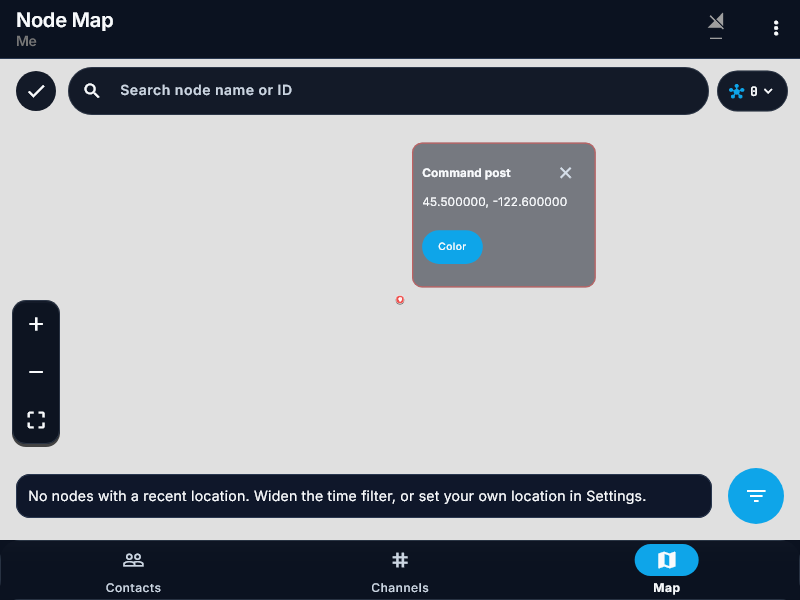
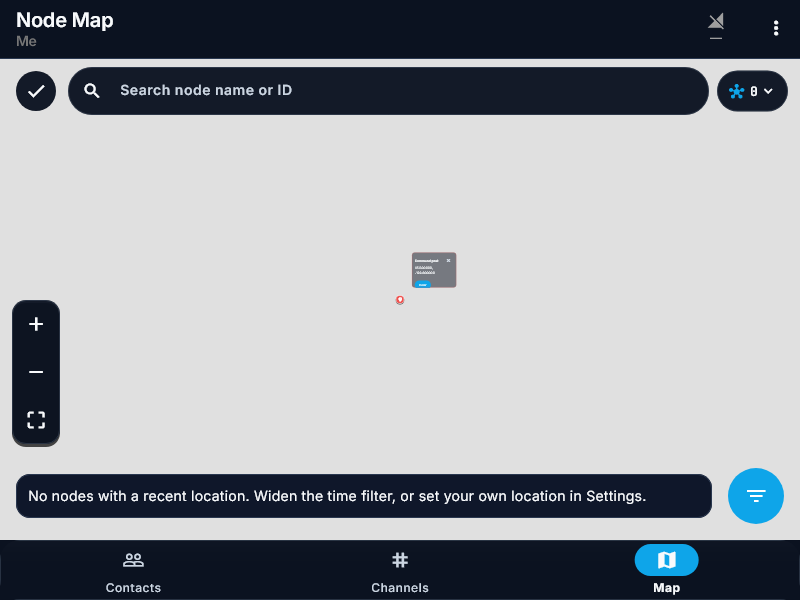
map disappears at 11.28 zoom

Changed region(s): [[0.5, 0.21, 0.75, 0.48]]

diff --git a/lib/screens/map_screen.dart b/lib/screens/map_screen.dart
@@ -79,6 +79,7 @@ class _MapScreenState extends State<MapScreen> with DisconnectNavigationMixin {
   static const double _guessedZoomThreshold = 12.0;
   static const double _mapMinZoom = 2.0;
   static const double _mapMaxZoom = 18.0;
+  static const double _pinCardMinZoom = 11.28;
 
   final MapController _mapController = MapController();
   final MapMarkerService _markerService = MapMarkerService();
@@ -88,6 +89,7 @@ class _MapScreenState extends State<MapScreen> with DisconnectNavigationMixin {
   bool _isSelectingPoi = false;
   bool _isPlanning = false;
   bool _isHighlightPinSelected = false;
+  bool _isPinCardZoomOverrideActive = false;
   MapPin? _highlightPin;
   bool _hasInitializedMap = false;
   bool _removedMarkersLoaded = false;
@@ -99,6 +101,7 @@ class _MapScreenState extends State<MapScreen> with DisconnectNavigationMixin {
   bool _statsExpanded = false;
   bool _showNodeLabels = true;
   double _zoom = 10.0;
+  double? _lastCameraZoom;
   static const double _lowZoom = 6.0;
   static const double _highZoom = 18.0;
   static const double _minimumScale = 0.20;
@@ -849,6 +852,12 @@ class _MapScreenState extends State<MapScreen> with DisconnectNavigationMixin {
                       }
                     },
                     onPositionChanged: (camera, hasGesture) {
+                      final previousZoom = _lastCameraZoom;
+                      final clearCardOverride =
+                          _isPinCardZoomOverrideActive &&
+                          previousZoom != null &&
+                          camera.zoom < previousZoom;
+                      _lastCameraZoom = camera.zoom;
                       // Track zoom in half-step buckets so cluster/marker
                       // detail levels update without rebuilding every frame.
                       final bucket = (camera.zoom * 2).roundToDouble() / 2;
@@ -860,11 +869,16 @@ class _MapScreenState extends State<MapScreen> with DisconnectNavigationMixin {
                       }
 
                       final shouldShow = camera.zoom >= _labelZoomThreshold;
-                      if ((bucket != _zoom || shouldShow != _showNodeLabels) &&
+                      if ((bucket != _zoom ||
+                              shouldShow != _showNodeLabels ||
+                              clearCardOverride) &&
                           mounted) {
                         setState(() {
                           _zoom = bucket;
                           _showNodeLabels = shouldShow;
+                          if (clearCardOverride) {
+                            _isPinCardZoomOverrideActive = false;
+                          }
                         });
                       }
                     },
@@ -885,9 +899,17 @@ class _MapScreenState extends State<MapScreen> with DisconnectNavigationMixin {
                             child: GestureDetector(
                               behavior: HitTestBehavior.deferToChild,
                               onTap: () {
+                                final preciseZoom = _mapController.camera.zoom;
+                                final isCardVisible =
+                                    _isHighlightPinSelected &&
+                                    (preciseZoom >= _pinCardMinZoom ||
+                                        _isPinCardZoomOverrideActive);
                                 setState(() {
-                                  _isHighlightPinSelected =
-                                      !_isHighlightPinSelected;
+                                  _isHighlightPinSelected = !isCardVisible;
+                                  _isPinCardZoomOverrideActive =
+                                      !isCardVisible &&
+                                      preciseZoom < _pinCardMinZoom;
+                                  _lastCameraZoom = preciseZoom;
                                 });
                               },
                               child: Center(
@@ -1024,6 +1046,10 @@ class _MapScreenState extends State<MapScreen> with DisconnectNavigationMixin {
                       Builder(
                         builder: (cardContext) {
                           final preciseZoom = MapCamera.of(cardContext).zoom;
+                          if (preciseZoom < _pinCardMinZoom &&
+                              !_isPinCardZoomOverrideActive) {
+                            return const SizedBox.shrink();
+                          }
                           final zoomProgress =
                               ((preciseZoom - _lowZoom) /
                                       (_highZoom - _lowZoom))
@@ -1104,6 +1130,8 @@ class _MapScreenState extends State<MapScreen> with DisconnectNavigationMixin {
                                                   onPressed: () {
                                                     setState(() {
                                                       _isHighlightPinSelected =
+                                                          false;
+                                                      _isPinCardZoomOverrideActive =
                                                           false;
                                                     });
                                                   },

diff --git a/test/screens/location_sharing_test.dart b/test/screens/location_sharing_test.dart
@@ -603,6 +603,9 @@ void main() {
         .mapController!;
     controller.move(controller.camera.center, 5.5);
     await tester.pumpAndSettle();
+    expect(_highlightPinCard(), findsNothing);
+    await tester.tap(find.byIcon(Icons.location_on));
+    await tester.pumpAndSettle();
     expect(tester.getRect(_highlightPinCard()).size, compactSize);
 
     controller.move(controller.camera.center, 12.1);
@@ -800,34 +803,104 @@ void main() {
     expect(tester.takeException(), isNull);
   });
 
-  testWidgets('selected pin and card hide and return together with zoom', (
+  testWidgets(
+    'selected card uses the exact zoom cutoff and retains its color',
+    (tester) async {
+      await _pumpChat(
+        tester,
+        connector,
+        channel: false,
+        home: const MapScreen(highlightPosition: LatLng(45.5, -122.6)),
+      );
+      await tester.tap(find.byIcon(Icons.location_on));
+      await tester.pumpAndSettle();
+      await _openPinColorDialog(tester);
+      await _applyPinColor(tester, 'Blue');
+      expect(find.byTooltip('Pin color'), findsOneWidget);
+
+      final controller = tester
+          .widget<FlutterMap>(find.byType(FlutterMap))
+          .mapController!;
+      controller.move(controller.camera.center, 11.29);
+      await tester.pumpAndSettle();
+      expect(_highlightPinCard(), findsOneWidget);
+      controller.move(controller.camera.center, 11.28);
+      await tester.pumpAndSettle();
+      expect(_highlightPinCard(), findsOneWidget);
+      controller.move(controller.camera.center, 11.279);
+      await tester.pumpAndSettle();
+      expect(find.byIcon(Icons.location_on), findsOneWidget);
+      expect(_highlightPinCard(), findsNothing);
+      expect(_highlightPinFill(tester), Colors.blue);
+
+      controller.move(controller.camera.center, 5);
+      await tester.pumpAndSettle();
+      expect(find.byIcon(Icons.location_on), findsNothing);
+      expect(find.byTooltip('Pin color'), findsNothing);
+
+      controller.move(controller.camera.center, 5.5);
+      await tester.pumpAndSettle();
+      expect(find.byIcon(Icons.location_on), findsOneWidget);
+      expect(_highlightPinCard(), findsNothing);
+      controller.move(controller.camera.center, 11.28);
+      await tester.pumpAndSettle();
+      expect(find.byTooltip('Pin color'), findsOneWidget);
+      expect(_highlightPinFill(tester), Colors.blue);
+      await tester.tap(find.byTooltip('Close'));
+      await tester.pumpAndSettle();
+      controller.move(controller.camera.center, 13);
+      await tester.pumpAndSettle();
+      expect(_highlightPinCard(), findsNothing);
+      expect(tester.takeException(), isNull);
+    },
+  );
+
+  testWidgets('low zoom click override expires on the next zoom out', (
     tester,
   ) async {
     await _pumpChat(
       tester,
       connector,
       channel: false,
-      home: const MapScreen(highlightPosition: LatLng(45.5, -122.6)),
+      home: const MapScreen(
+        highlightPosition: LatLng(45.5, -122.6),
+        highlightZoom: 10.5,
+      ),
     );
+    expect(_highlightPinCard(), findsNothing);
     await tester.tap(find.byIcon(Icons.location_on));
     await tester.pumpAndSettle();
-    await _openPinColorDialog(tester);
-    await _applyPinColor(tester, 'Blue');
-    expect(find.byTooltip('Pin color'), findsOneWidget);
+    expect(_highlightPinCard(), findsOneWidget);
 
     final controller = tester
         .widget<FlutterMap>(find.byType(FlutterMap))
         .mapController!;
-    controller.move(controller.camera.center, 5);
+    controller.move(const LatLng(45.501, -122.6), 10.5);
     await tester.pumpAndSettle();
-    expect(find.byIcon(Icons.location_on), findsNothing);
-    expect(find.byTooltip('Pin color'), findsNothing);
+    expect(_highlightPinCard(), findsOneWidget);
+    controller.move(controller.camera.center, 10.6);
+    await tester.pumpAndSettle();
+    expect(_highlightPinCard(), findsOneWidget);
+    controller.move(controller.camera.center, 10.59);
+    await tester.pumpAndSettle();
+    expect(_highlightPinCard(), findsNothing);
+    controller.move(controller.camera.center, 10.61);
+    await tester.pumpAndSettle();
+    expect(_highlightPinCard(), findsNothing);
 
-    controller.move(controller.camera.center, 5.5);
+    await tester.tap(find.byIcon(Icons.location_on));
     await tester.pumpAndSettle();
-    expect(find.byIcon(Icons.location_on), findsOneWidget);
-    expect(find.byTooltip('Pin color'), findsOneWidget);
-    expect(_highlightPinFill(tester), Colors.blue);
+    expect(_highlightPinCard(), findsOneWidget);
+    await tester.tap(find.byIcon(Icons.location_on));
+    await tester.pumpAndSettle();
+    expect(_highlightPinCard(), findsNothing);
+    await tester.tap(find.byIcon(Icons.location_on));
+    await tester.pumpAndSettle();
+    await tester.tap(find.byTooltip('Close'));
+    await tester.pumpAndSettle();
+    controller.move(controller.camera.center, 12);
+    await tester.pumpAndSettle();
+    expect(_highlightPinCard(), findsNothing);
     expect(tester.takeException(), isNull);
   });
 

diff --git a/documentation/map-and-location.md b/documentation/map-and-location.md
@@ -38,13 +38,15 @@ Tap a pin to see its info. Options to "Hide" (session only) or "Remove" (persist
 
 ### Highlighted Location Pin
 
-When you open a location from chat, tap its highlighted pin to show a small info card beside it. The card follows the pin as you pan and zoom, and the rest of the map stays interactive. Close the card with its close button or tap the highlighted pin again.
+When you open a location from chat, tap its highlighted pin to show a small info card beside it. The card follows the pin as you pan and zoom, and the rest of the map stays interactive. Close a visible card with its close button or by tapping the highlighted pin again.
 
-The highlighted pin drawing and info card resize smoothly as you zoom, up to fixed minimum and maximum sizes. The whole card scales proportionally: its title, coordinates, Color button, close icon, padding, and border all grow or shrink together. Scroll inside the card when a long name, larger system text, or limited space puts an action below the visible area. The color-picker dialog opens at its normal size. At the app's tracked zoom level of 5 or below, both the pin and its open card hide. Zooming back in restores the pin and any previously open card, preserving its selected color. Other zoom behavior, including visibility and clustering, keeps its existing rules. Pan the map to bring a card away from screen edges when needed.
+The highlighted pin drawing and info card resize smoothly as you zoom, up to fixed minimum and maximum sizes. The whole card scales proportionally: its title, coordinates, Color button, close icon, padding, and border all grow or shrink together. Scroll inside the card when a long name, larger system text, or limited space puts an action below the visible area. The color-picker dialog opens at its normal size. Other zoom behavior, including clustering, keeps its existing rules. Pan the map to bring a card away from screen edges when needed.
+
+An opened card normally stays visible at zoom **11.28 or higher** and hides below that cutoff. Tap a visible pin below the cutoff to open its card temporarily: panning or zooming in keeps it open; the next zoom-out ends that exception. A selected card can return when zooming back to 11.28 or higher. Closing it with X or a second pin tap clears the selection, so zoom alone will not reopen it. The pin itself still hides at the app's tracked zoom level of 5 or below; restoring the pin below the card cutoff requires another tap to show its card. Color changes are retained.
 
 ![Highlighted location card with a bold title and pill-shaped Color button](../docs/screenshots/map-pin-info-card.png)
 
-| Compact card when zoomed out | Expanded card when zoomed in |
+| Compact card explicitly opened below the cutoff | Expanded card when zoomed in |
 |---|---|
 | ![Compact location card](../docs/screenshots/map-pin-card-compact.png) | ![Expanded location card](../docs/screenshots/map-pin-card-expanded.png) |
 
